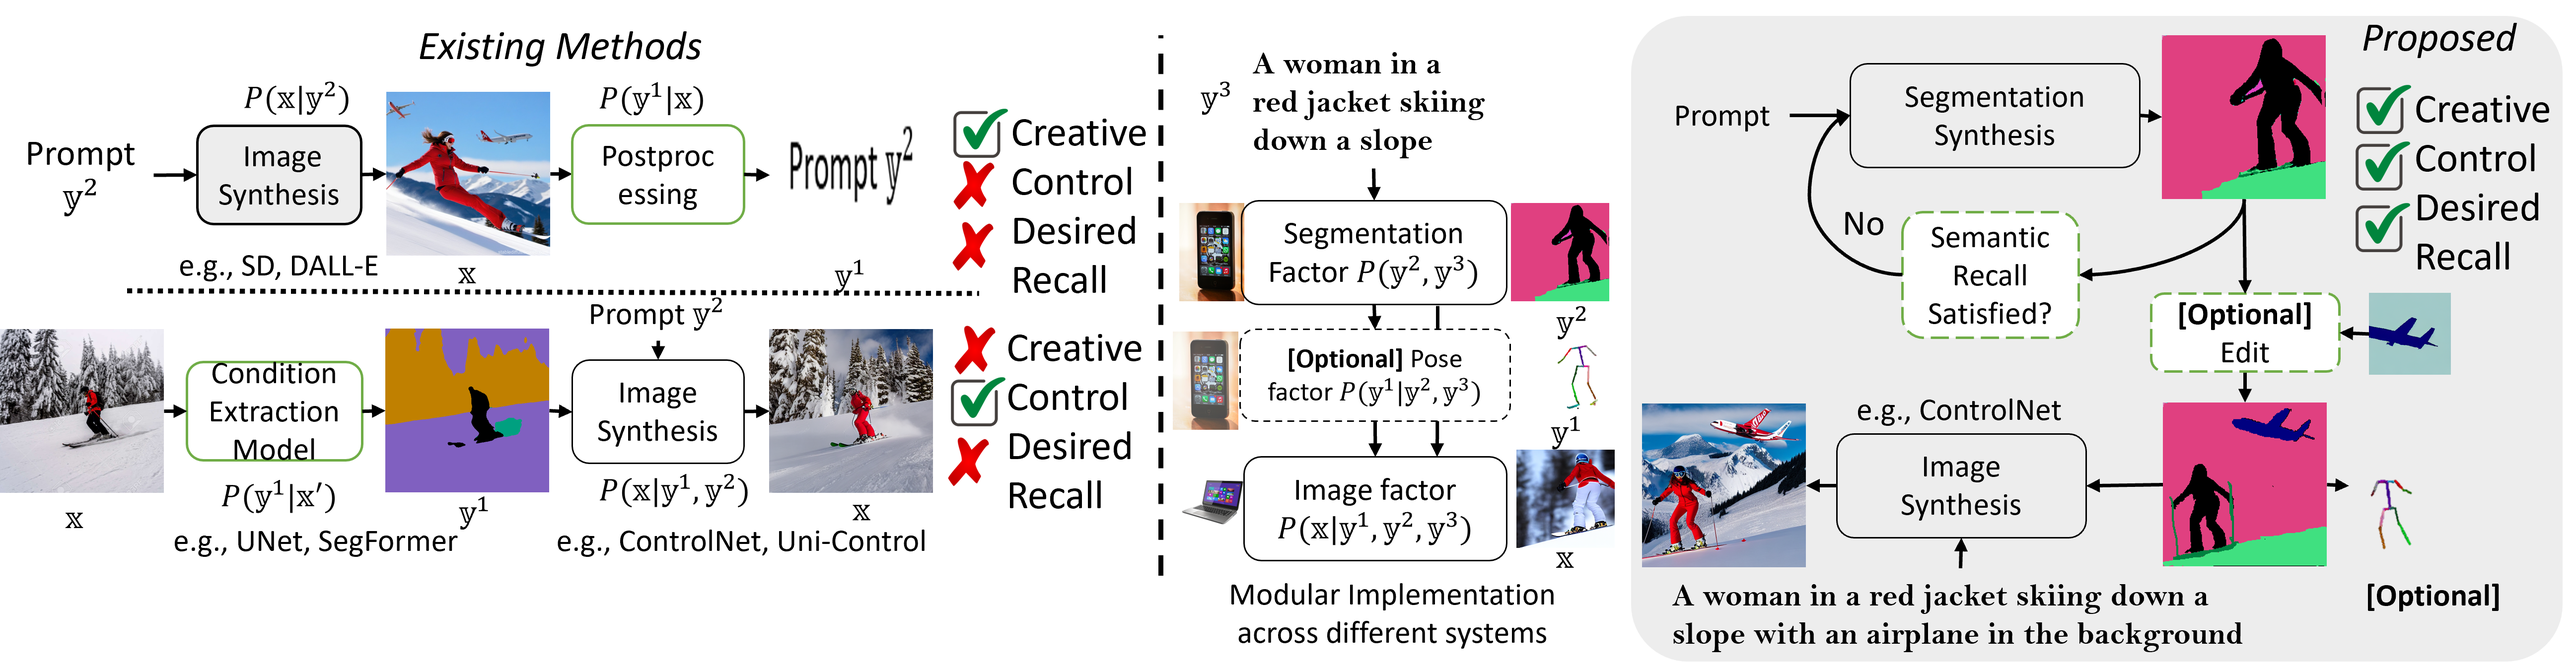
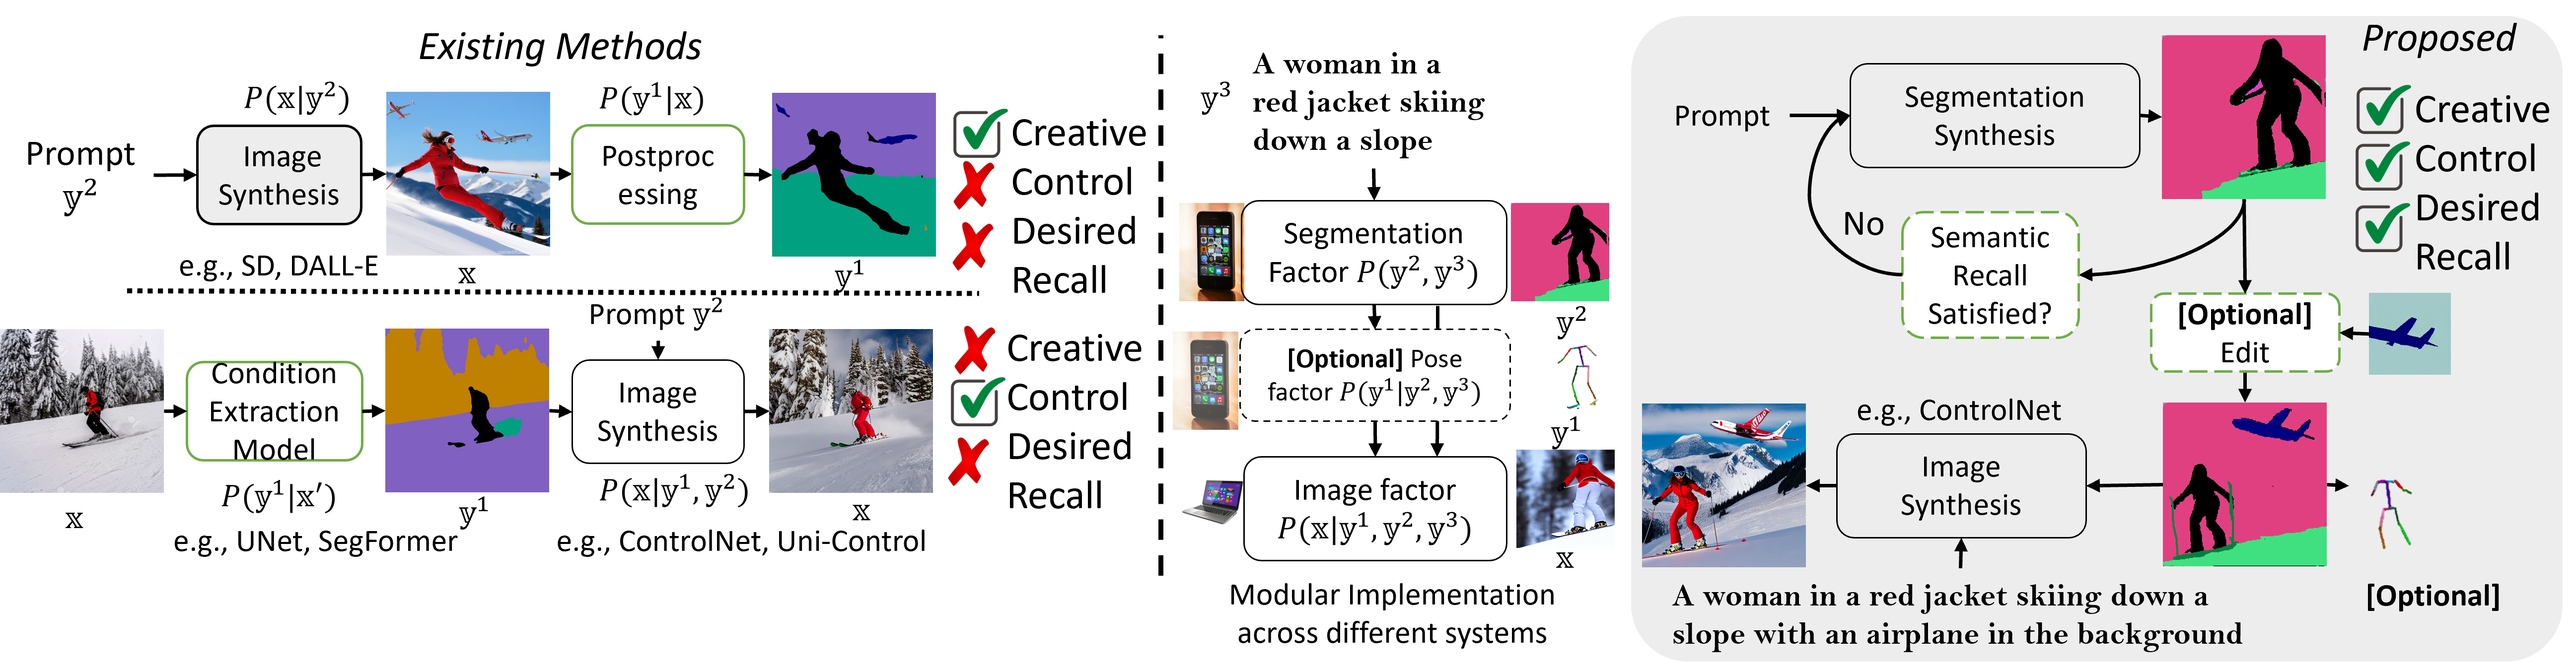
Update figures and captions

Changed region(s): [[0.281, 0.1241, 0.3747, 0.4032]]

diff --git a/index.html b/index.html
@@ -321,9 +321,13 @@
             <div class="columns is-centered">
               <div class="column content">
                 <p>
-                  Condition/image pairs synthesized by FG-DMs of the joint distribution \(P(\mathbf{x},\mathbf{y})\) of image \(\mathbf{x}\) and condition \(\mathbf{y}\). The FG-DMs are trained on CoCo dataset by adapting Stable Diffusion v1.4 with 256x256 image size. The depth maps extracted from the generated images using MIDAS detector is also shown in the bottom right of the generated depth maps. The extracted depth maps lack details as compared to the generated ones by FG-DM.
+                  Synthesized Segmentation/Depth/Canny/Normal maps and the corresponding images by
+FG-DMs adapted from SD using COCO dataset. FG-DMs generalize well to prompts beyond
+the training dataset. The first two columns show the benefit of explainability with FG-DM which
+allows verifying intermediate conditions to understand the hallucinations (mixup of a chimp and
+a person) of SD which are opaque otherwise.
                 </p>
-                <img src="./static/images/teaser.png"
+                <img src="./static/images/teaser_all.png"
                      class="interpolation-image"
                      alt="Image synthesis by FG-DMs."/>
               </div>
@@ -351,10 +355,10 @@
             </p>
             
             <p>
-              For semantic map editing, we present the results of fusing two generated segmentation masks (the second mask is displayed in the bottom right corner) using our specialized semantic editing tool. Additionally, the synthesized pose maps are embedded within the generated images, accompanied by their respective segmentations.
+              For semantic map editing, we present the results of fusing two generated segmentation masks (the second mask is displayed in the bottom right corner) using our specialized semantic editing tool. Additionally, the synthesized pose maps are shown beside the generated images, accompanied by their respective segmentations.
             </p>
             
-            <img src="./static/images/teaser-edit.png"
+            <img src="./static/images/teaser_edit.png"
                  class="interpolation-image"
                  alt="Image synthesis by editing semantic maps using FG-DMs."/>
           </div>
